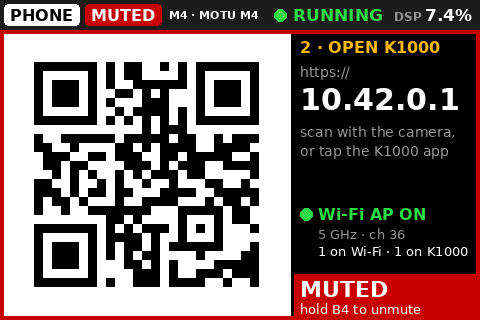
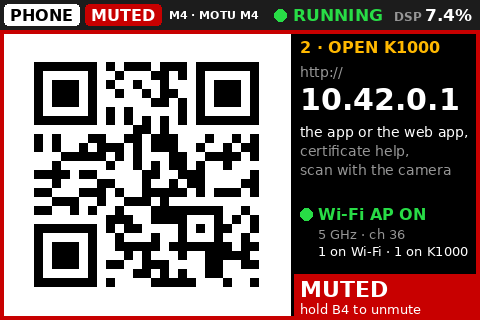
phone: once a phone joins, the box screen shows the first-time page
After the Wi-Fi code, the box screen switched by itself to the page's
https URL. A fresh phone does not trust the K1000 certificate yet, so
that code opened a certificate warning, then the v1 page; the
first-time page (the app or the web app, step by step) was the third
code, reached only by turning E1.

Step 2 is now the first-time page, http://10.42.0.1/ (plain HTTP: no
warning), labelled 2 · OPEN K1000. E1 steps Wi-Fi, first-time page,
then DIRECT LINK (the https URL, for a phone already set up). A box
that does not serve the first-time page shows the URL as step 2, as
before. Screen snapshots and docs follow.

Refs-37: k1000#t-025
Claude-Session: https://claude.ai/code/session_015PNf5spdiuJY6Bhz489coL

Changed region(s): [[0.0625, 0.1875, 0.5625, 0.9062], [0.625, 0.375, 0.9688, 0.5625], [0.6875, 0.1875, 0.75, 0.25]]

diff --git a/box/k1000/ui/qr.py b/box/k1000/ui/qr.py
@@ -1,6 +1,6 @@
 # SPDX-License-Identifier: GPL-3.0-or-later
-"""The PHONE page of the box screen (480x320): the Wi-Fi QR to join the K1000 AP, then the URL QR
-once a phone is on it (D-007, docs/06-phone.md).
+"""The PHONE page of the box screen (480x320): the Wi-Fi QR to join the K1000 AP, then the
+first-time page's QR once a phone is on it (D-007, docs/06-phone.md).
 
 Why it looks like this:
 - **Scannable from 50 cm.** The QR is black on a white panel (inverted codes defeat many
@@ -12,8 +12,10 @@ Why it looks like this:
   not every Android scanner offers an uppercase scheme as a link.
 - **Two steps, one code at a time.** Step 1 joins the Wi-Fi (Android 10+ joins from a
   `WIFI:` code in one tap); once a phone holds a lease (or is connected) the panel switches to
-  the URL. E1 steps through the codes by hand: Wi-Fi, URL, and the first-time setup page
-  (http://10.42.0.1/: the certificate download), for a second phone or a first install.
+  step 2, the first-time page (http://10.42.0.1/: the app or the web app, and the certificate
+  only where it is needed; plain HTTP, so a fresh phone gets no certificate warning), or the URL
+  when the box does not serve that page. E1 steps through the codes by hand: Wi-Fi, the
+  first-time page, and the DIRECT LINK (the page's https URL, for a phone already set up).
 - **The password is also printed** (easy-to-type alphabet, setup-ap.sh): the fallback when a
   camera will not scan. It appears on the box screen only. While SETUP > Laptop access is open
   it is printed on every step (a laptop cannot scan the QR), with the time left.
@@ -296,14 +298,16 @@ def _body_link(c: Any, inf: _Info, step: str, url: str, lines: list[str]) -> Non
 
 def _body_url(c: Any, inf: _Info) -> None:
     lines = [("scan with the camera,", DIM), ("or tap the K1000 app", DIM)]
+    if inf.setup_url and inf.tls:   # step 2 is the first-time page: this is for a phone set up
+        lines.insert(0, ("phone already set up:", DIM))
     if not inf.tls:
         lines.append(("no HTTPS: page only", ORANGE))
-    _body_link(c, inf, "2 · OPEN K1000", inf.url, lines)
+    _body_link(c, inf, "DIRECT LINK" if inf.setup_url else "2 · OPEN K1000", inf.url, lines)
 
 
 def _body_setup(c: Any, inf: _Info) -> None:
-    _body_link(c, inf, "FIRST TIME", inf.setup_url,
-               [("the K1000 certificate", FG), ("+ setup help,", DIM), ("once per phone", DIM)])
+    _body_link(c, inf, "2 · OPEN K1000", inf.setup_url,
+               [("the app or the web app,", FG), ("certificate help,", DIM), ("scan with the camera", DIM)])
 
 
 def _render(info: Any, state: Any, status: Any, focus: Any, now: float | None) -> Image.Image:
@@ -396,7 +400,7 @@ def demo_cases() -> list[tuple[str, Any, Any, Any]]:
     return [
         ("phone_wifi", _Info(**base), s, run),
         ("phone_url", _Info(**{**base, "qr": "url", "stations": 1}), s, run),
-        ("phone_connected", _Info(**{**base, "qr": "url", "stations": 1, "phones": 1}), muted, run_m),
+        ("phone_connected", _Info(**{**base, "qr": "setup", "stations": 1, "phones": 1}), muted, run_m),
         ("phone_off", _Info(**{**base, "on": False}), s, run),
         ("phone_ap_down", _Info(**{**base, "ap_up": False}), s, nodev),
         ("phone_no_tls", _Info(**{**base, "qr": "url", "stations": 1, "tls": False,

diff --git a/box/k1000/web/server.py b/box/k1000/web/server.py
@@ -158,7 +158,7 @@ CA_CONTENT_TYPE = "application/x-x509-ca-cert"
 BUILD_MARK = b"__K1000_BUILD__"
 BUILD_STAMPED = frozenset({"/sw.js", "/app.js"})
 PORTAL_ONLY = frozenset({"/portal.html"})
-QR_CYCLE = ("wifi", "url", "setup")   # E1 on the PHONE page steps through these
+QR_CYCLE = ("wifi", "setup", "url")   # E1 on the PHONE page steps through these
 
 # The Android app, offered by the box (docs/06-phone.md §4; the app: docs/09-android.md).
 APK_PATH = "/k1000.apk"
@@ -1927,9 +1927,9 @@ class PhoneServer:
         return self.set_enabled(not self._on)
 
     def select_qr(self, delta: int = 1) -> str:
-        """E1 on the PHONE page: step through the codes (Wi-Fi -> URL -> first-time setup page,
-        the last one only when the portal port is served) for QR_OVERRIDE_S, then back to the
-        automatic choice (Wi-Fi until a phone is on the AP, then the URL). Returns it."""
+        """E1 on the PHONE page: step through the codes (Wi-Fi -> first-time page, only when the
+        portal port is served -> URL) for QR_OVERRIDE_S, then back to the automatic choice (Wi-Fi
+        until a phone is on the AP, then the first-time page, else the URL). Returns it."""
         cycle = [q for q in QR_CYCLE if q != "setup" or self.setup_url]
         shown = self.screen_info().qr
         i = cycle.index(shown) if shown in cycle else 0
@@ -1972,7 +1972,9 @@ class PhoneServer:
         """Cached presence + settings for the PHONE page (cheap: called by the render path)."""
         psk, why = self._psk
         setup_url = self.setup_url
-        qr = "url" if self._stations or self._clients else "wifi"
+        # once a phone is on the AP: the first-time page (http, so a fresh phone gets no
+        # certificate warning: the app or the web app, step by step), else the URL
+        qr = ("setup" if setup_url else "url") if self._stations or self._clients else "wifi"
         if (self._qr_force is not None and self._clock() < self._qr_until
                 and (self._qr_force != "setup" or setup_url)):
             qr = self._qr_force

diff --git a/box/tests/test_web.py b/box/tests/test_web.py
@@ -899,17 +899,29 @@ def test_notch_on_the_predicted_slot(tmp_path: Path) -> None:
 
 
 def test_qr_cycle_includes_the_setup_page_when_the_portal_is_served(tmp_path: Path) -> None:
+    """Step 2, once a phone is on the AP, is the first-time page (plain HTTP: a fresh phone gets
+    no certificate warning, and the app or the web app from there); the page's https URL is the
+    next code, for a phone already set up. Without the portal: the URL, as before."""
     cfg = settings(tmp_path, address="10.42.0.1", hosts=())
     now = [0.0]
     srv = PhoneServer(object(), cfg, clock=lambda: now[0])
     srv.ports["https"], srv.ports["http"] = 443, 80
     assert srv.setup_url == "http://10.42.0.1/"
     assert srv.screen_info().setup_url == "http://10.42.0.1/"
-    assert [srv.select_qr(1) for _ in range(4)] == ["url", "setup", "wifi", "url"]
-    assert srv.select_qr(-1) == "wifi" and srv.select_qr(-1) == "setup"
+    assert [srv.select_qr(1) for _ in range(4)] == ["setup", "url", "wifi", "setup"]
+    assert srv.select_qr(-1) == "wifi" and srv.select_qr(-1) == "url"
+    assert srv.select_qr(-1) == "setup"
     del srv.ports["http"]                                     # forced 'setup', then no portal:
     assert srv.setup_url == "" and srv.screen_info().qr == "wifi"   # not shown any more
     assert srv.select_qr(1) == "url"
+    # a phone joins: step 2 by itself, the first-time page while the box serves it, else the URL
+    now[0] += web.QR_OVERRIDE_S + 1
+    Path(cfg.arp_file).write_text(ARP)
+    srv.refresh_presence()
+    assert srv.screen_info().stations == 2 and srv.screen_info().qr == "url"
+    srv.ports["http"] = 80
+    assert srv.screen_info().qr == "setup"
+    assert srv.select_qr(1) == "url" and srv.select_qr(1) == "wifi"
 
 
 class _HangingWS:

diff --git a/docs/06-phone.md b/docs/06-phone.md
@@ -14,8 +14,9 @@ carry the show.
   wpa_supplicant AP on the Pi's chip drops Apple/older-Android clients ~6 s after the handshake.
   `--backend nm` stays available.
 - **Captive portal off** (the AP's DNS answers `k1000.home.arpa` only): Android then offers *Stay
-  connected* and keeps auto-joining K1000 after a dropout (§5). The PHONE page's third QR,
-  **FIRST TIME** (`http://10.42.0.1/`), covers the one-time certificate install.
+  connected* and keeps auto-joining K1000 after a dropout (§5). The PHONE page's second QR,
+  **2 · OPEN K1000** (`http://10.42.0.1/`, the first-time page), covers the app or the one-time
+  certificate install.
 - **5 GHz channel 36, country FR**; 2.4 GHz (`--band bg`, channel 6) is the documented fallback.
   Thomas stands up to ~10 m from the box.
 - **The phone may unmute**, with the stale-unmute protection (`mute_seq`, §2). **SSH and
@@ -76,9 +77,12 @@ carry the show.
   set up with Wi-Fi in Raspberry Pi Imager), `setup-ap.sh` refuses (exit 4) instead of cutting
   that link. Leave Wi-Fi empty in Imager.
 - **QR codes on the box screen** (SETUP › PHONE › Phone): first the Wi-Fi code (Android 10+ joins in one
-  tap; the password is also printed, easy to type). Once a phone is on the AP the screen shows the
-  page's URL. E1 turn steps through the codes: Wi-Fi → URL → **first time** (http://10.42.0.1/,
-  the certificate page).
+  tap; the password is also printed, easy to type). Once a phone is on the AP the screen shows
+  step 2, the first-time page (`http://10.42.0.1/`: the app or the web app; plain HTTP, so a fresh
+  phone gets no certificate warning; since 2026-11-12, before: the page's https URL, and the
+  first-time page was the third code). E1 turn steps through the codes: Wi-Fi → first-time page →
+  **DIRECT LINK** (`https://10.42.0.1/`, for a phone already set up). A box that does not serve
+  the first-time page shows the URL as step 2.
 - **The page is K1000's own**, served by the k1000 process (python3-websockets already on the box;
   the new packages are python3-qrcode for the screen codes and hostapd for the AP). It drives the **same Controller
   as the knobs**. It is not CamillaGUI, which POSTs whole configs and can undo knob work.
@@ -93,8 +97,8 @@ carry the show.
   the browser (`/k1000.apk`, `/api/wifi`, `/tune`, the CA) goes to the box untouched and is never
   kept as the page.
 
-Screens: `docs/ui/phone_wifi.png` (step 1), `phone_url.png` (step 2), `phone_setup.png` (first
-time), `phone_connected.png` (muted box, one phone connected), `phone_off.png`, `phone_ap_down.png`,
+Screens: `docs/ui/phone_wifi.png` (step 1), `phone_setup.png` (step 2, the first-time page),
+`phone_url.png` (the direct link), `phone_connected.png` (muted box, one phone connected), `phone_off.png`, `phone_ap_down.png`,
 `phone_no_tls.png`; with SETUP › PHONE › Laptop access open, `phone_laptop.png` (the password as text, §11).
 
 ## 2. What the phone does (v0)
@@ -166,7 +170,7 @@ system EQ, trims, input trim, sub low-pass.
    - Portal **on** (`--portal on`): Android shows *Sign in to network* instead (§5).
 4. **Install the K1000 certificate (once):**
    - The phone needs a **screen lock** (PIN/pattern): Android refuses certificates without one.
-   - If it is not on the phone yet: on the box, E1 turn to the **FIRST TIME** QR (or open
+   - If it is not on the phone yet: on the box, the second QR, **2 · OPEN K1000** (or open
      `http://10.42.0.1/` in **Chrome**), tap *Download the K1000 certificate*; Chrome may say it
      *can't be downloaded securely*: tap **Keep**.
    - Do **not** tap the downloaded file (Android 11+ answers *Can't install CA certificates*).
@@ -194,7 +198,8 @@ box only succeeds when it does). It also serves the CA at `http://10.42.0.1/k100
 (`application/x-x509-ca-cert`).
 
 **Two ways in, one button each** (2026-11-12; the app button since 2026-10-13). The first-time
-page (the PHONE page's third QR, **FIRST TIME**) offers:
+page (the PHONE page's second QR, **2 · OPEN K1000**, shown by itself once a phone is on the
+Wi-Fi) offers:
 
 1. **Android: the K1000 app** (when the box was deployed with the APK,
    [`docs/09-android.md`](09-android.md)): **Install the K1000 app**, with its version, size and
@@ -267,11 +272,11 @@ has no "Open in browser".
 | DNS | every name → 10.42.0.1 | only `k1000.home.arpa`; everything else "no such domain", at once |
 | On joining | *Sign in to network* (the first-time page in the WebView) | *No internet — Stay connected?* (joined from Settings) |
 | Afterwards | Android sees a portal that never validates: no "Don't ask again" possible; after each **automatic** join it pauses auto-joining K1000 for up to 10 min (Android 13 code). After a dropout mid-show the phone does not come back by itself: Wi-Fi tile off/on, or tap K1000 in Settings | With *Don't ask again*, K1000 is kept and auto-joined like any network, including after a dropout |
-| First-time certificate | via the sign-in window → Chrome | the FIRST TIME QR on the box, or the CA put on the phone beforehand |
+| First-time certificate | via the sign-in window → Chrome | the box's second QR (the first-time page), or the CA put on the phone beforehand |
 
 The portal was the D-007 "bonus"; it costs the main path its automatic reconnection, so it is
 **off by default** (2026-10-12). The one thing it gave, the certificate page on joining, is the
-PHONE page's third QR (**FIRST TIME**, `http://10.42.0.1/`). Back to the portal, one command:
+PHONE page's second QR (**2 · OPEN K1000**, `http://10.42.0.1/`). Back to the portal, one command:
 `sudo /opt/k1000/net/setup-ap.sh --portal on` (and `--portal off` again).
 
 ## 6. Range, band, plan B
@@ -366,7 +371,8 @@ socket, `/tune/ws` (§11).
 ## 9. Friday rig-test checklist (go/no-go for Sunday)
 
 1. The phone joins **K1000** from the QR, gets an IP (Settings › K1000 › IP address) and **stays
-   connected for more than 30 s**; the box screen switches to the URL QR. (Fails → §6 plan B.)
+   connected for more than 30 s**; the box screen switches to its second QR, the first-time
+   page. (Fails → §6 plan B.)
 2. Rejoin: Wi-Fi off/on, then walk out of range and back: the phone rejoins K1000 **by itself**
    within 30 s. (With portal on it may not: note it; §5.)
 3. In airplane mode + Wi-Fi, the **K1000 icon** opens in < 2 s and shows LINK + RUNNING. Note what

diff --git a/docs/09-android.md b/docs/09-android.md
@@ -55,8 +55,8 @@ On the Pixel 4a (Android 13), with the box up, SETUP › PHONE on its screen:
 1. **Join K1000 with the camera.** The **first** QR code (Wi-Fi): Camera app, or Settings ›
    Network & internet › Internet › the **⊞ QR icon** › scan › *Join*. *K1000 has no internet
    access — Stay connected?* › **Yes** (`06-phone.md` §3 step 3).
-2. **The first-time page.** E1 turn to the **third** code, FIRST TIME (`http://10.42.0.1/`), scan
-   it, open it in **Chrome**. Tap **Install the K1000 app** (it shows the version, the size and
+2. **The first-time page.** The box screen shows it by itself once the phone is on the Wi-Fi: the
+   **second** code, 2 · OPEN K1000 (`http://10.42.0.1/`); scan it, open it in **Chrome**. Tap **Install the K1000 app** (it shows the version, the size and
    the first 8 hex of the APK's SHA-256; *This box holds no copy of the app* = no APK: §6).
 3. **Install.** Chrome may warn about the download (an APK, over plain http on the box's own Wi-Fi):
    **Download anyway** / **Keep**. Tap the download, then, once per phone: *Your phone is not allowed
@@ -68,7 +68,7 @@ On the Pixel 4a (Android 13), with the box up, SETUP › PHONE on its screen:
    **K1000 Wi-Fi taken from the box**.
 5. Android's own dialog: *Connect to device — K1000 app wants to use a temporary Wi-Fi network to
    connect to your device — K1000* › **Connect**. Once per phone and app: Android remembers it.
-6. The K1000 page opens (the box screen switches to the URL code, as with Chrome); Android says
+6. The K1000 page opens (the box screen shows its second code, as with Chrome); Android says
    *Viewing full screen · To exit, swipe down from the top* once › **Got it**. From then on the app
    joins K1000 by itself at every launch, as after a scan.
 
@@ -313,7 +313,7 @@ The contract is [`android/BRIDGE.md`](../android/BRIDGE.md); in short:
 |---|---|
 | On K1000 (joined with the camera), but the Connect screen does not ask the box | The fallback box *I joined K1000 in Android's Wi-Fi settings* is ticked (untick it), or Android 17's nearby devices permission was refused: the Connect screen then says so; tap that line › **Allow** (or close the app and open it again: a new Connect screen asks once more) |
 | *This box does not hand its Wi-Fi to the app* | The box predates `/api/wifi`, or has no password file (`setup-ap.sh --status`): scan the code |
-| The scan says *This is not a Wi-Fi QR code* | You scanned the URL or FIRST TIME code: turn E1 on the box back to the **Wi-Fi** code |
+| The scan says *This is not a Wi-Fi QR code* | You scanned the OPEN K1000 code or the DIRECT LINK: turn E1 on the box back to the **Wi-Fi** code |
 | The scan says the code is for an open network or WPA3 | The box's AP is not the K1000 WPA2 one (`setup-ap.sh --status`) |
 | *Joining K1000…* for long, no dialog | K1000 is out of range or on a band the phone cannot see (`setup-ap.sh --band bg`, `06-phone.md` §6) |
 | Android's dialog does not list K1000 | Same as above; or the password changed on the box (`--new-password`): *Change K1000 Wi-Fi* and scan again |
@@ -342,7 +342,7 @@ release is the intended way to hand it out (not done: publishing is Thomas's cal
 carry `K1000-<version>.LICENSES.txt` next to the APK (GitHub adds the source archive itself).
 
 **The box hands it out too (0.2.1):** its first-time page (`http://10.42.0.1/`, the PHONE page's
-third QR) offers *Install the K1000 app* when the box was deployed with an APK: `install.sh` installs
+second QR) offers *Install the K1000 app* when the box was deployed with an APK: `install.sh` installs
 the newest `box/apk/K1000-<version>.apk` (never in git) to `/opt/k1000/apk/`, and the deploy drops
 the signed release APK there before copying the tree (`06-phone.md`, first-time page). The page
 shows the version and the first 8 hex of the APK's SHA-256: compare them with

diff --git a/docs/manual/04-usage.md b/docs/manual/04-usage.md
@@ -439,8 +439,9 @@ and the read-only reasons ([§5](#5-setup)).
 ![PHONE: step 1, join the Wi-Fi](../ui/phone_wifi.png)
 
 The QR codes a phone needs, and the phone switch. **E1 turn**: the next code, `1 · JOIN WI-FI` →
-`2 · OPEN K1000` → `FIRST TIME` (the certificate page). Once a phone is on the Wi-Fi the page shows
-step 2 by itself. **E1 push**: phone control on/off (`PHONE CONTROL ON` /
+`2 · OPEN K1000` (the first-time page: the app or the web app, and the certificate where it is
+needed) → `DIRECT LINK` (the page itself, for a phone already set up). Once a phone is on the
+Wi-Fi the page shows step 2 by itself. **E1 push**: phone control on/off (`PHONE CONTROL ON` /
 `PHONE OFF · KNOBS ONLY`, kept across restarts). **B1 tap**: back to SETUP; **B1 hold**: SHOW.
 B4 still mutes.
 
@@ -524,7 +525,7 @@ mute. Use the phone at a show only once it has been proven with your phone on yo
 ### 8.1 Once per phone, at home
 
 1. **The K1000 certificate.** The phone needs a screen lock. Put the CA's public certificate
-   (`k1000-ca.crt`) on the phone, or get it from the box: E1 to the `FIRST TIME` QR (or
+   (`k1000-ca.crt`) on the phone, or get it from the box: the `2 · OPEN K1000` QR (or
    `http://10.42.0.1/` in Chrome), *Download the K1000 certificate*, *Keep*. **Do not tap the
    file.** Install it from Settings › Security › Encryption & credentials › Install a certificate
    › **CA certificate**. *Network may be monitored* is expected: this CA can only vouch for the
